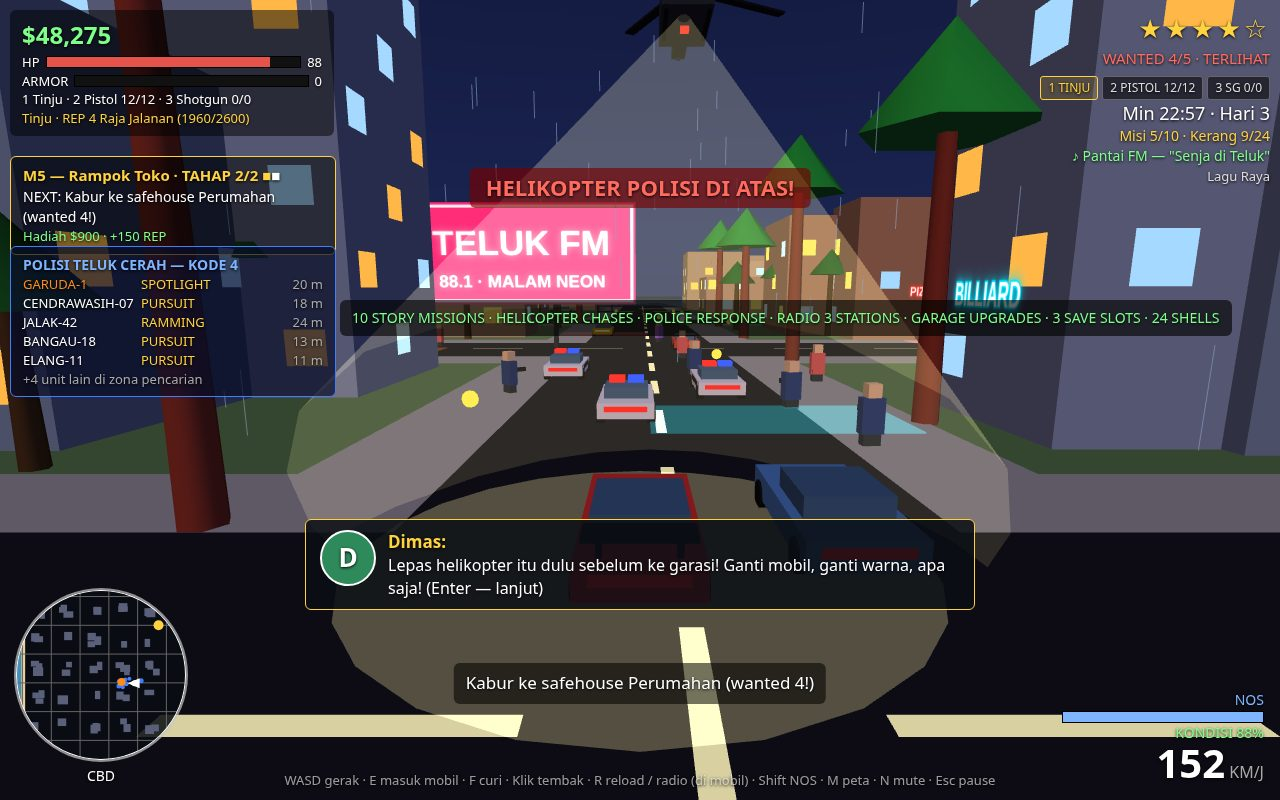
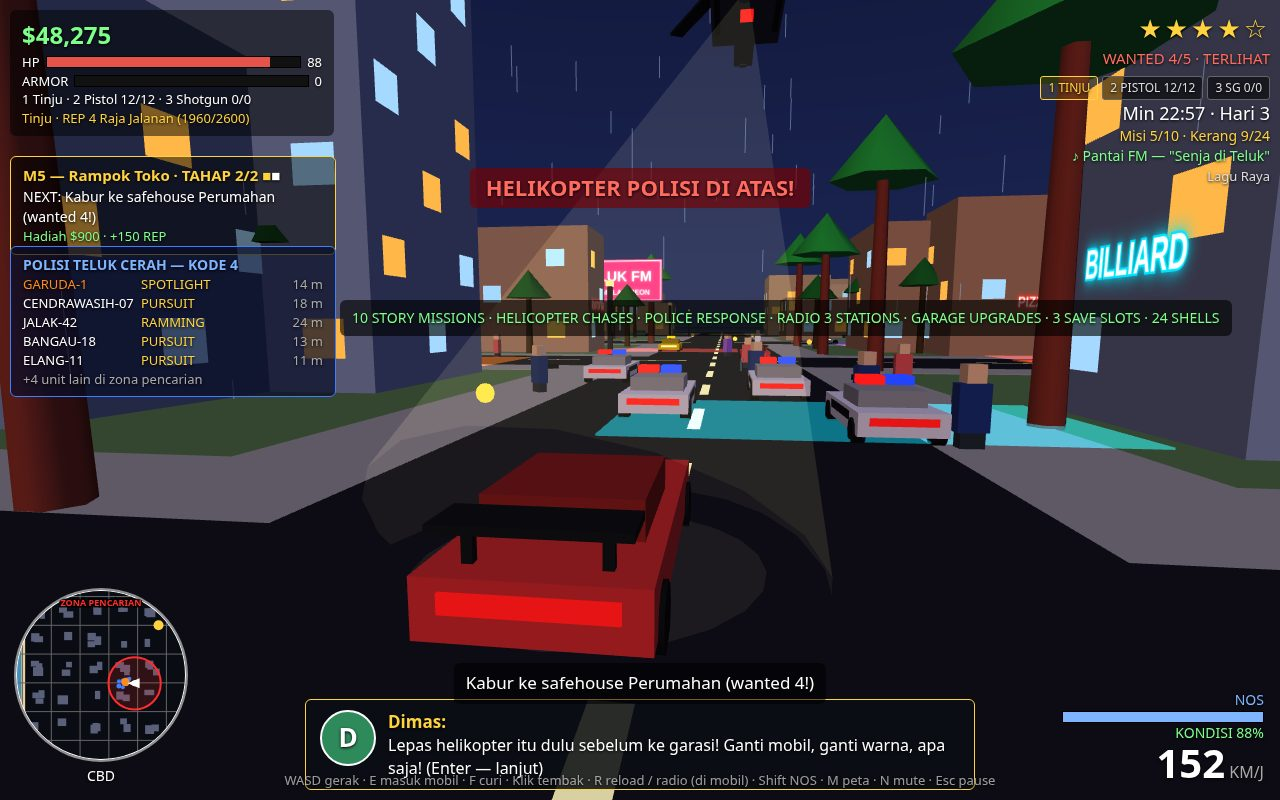
gta6-01 v3 fixer: search-zone minimap, shootout flash+tracer persisten, 6 kru berwajah, peta malam neon, chase ala referensi
- hud.js drawMinimap: lingkaran zona pencarian merah (rgba 255,45,45,0.16 + stroke #ff2d2d) + label ZONA PENCARIAN
- hud.js drawMapCanvas: palet malam navy #0d1526, jalan neon cyan, blok distrik gelap, label CBD digeser dari garis rute
- shots.js/render.js: kamera on-foot dekat + offset samping (pemain ~30% frame), muzzleFlash persisten + balok tracer kuning laras->musuh, sprite flash dikecilkan
- index.html: kru 6 (Sinta Peretas, Bimo Penjaga) + wajah voxel ganti badge huruf; title hero+Raka foreground kiri-bawah
- render.js/shots.js chase: kamera 3/4 ala competitor-chase-ref, kabin warna bodi digelapkan, billboard TELUK FM digeser dari titik hilang, cakram spotlight diredupkan, genangan neon diperkuat, dialog chase dipindah ke bawah
- render.js: hapus teks NEON NIGHTS dari daftar papan neon (nama kompetitor)

diff --git a/game/src/render.js b/game/src/render.js
@@ -208,7 +208,7 @@ export function createRenderer(canvas) {
     // Neon sign: papan nama bercahaya di fasad gedung dekat jalan +
     // pantulan warnanya di aspal basah (tekstur canvas prosedural,
     // tanpa aset eksternal).
-    const NEON_TEXTS = ['KLUB', 'DISKO', 'NEON NIGHTS', 'ROOFTOP BAR', 'ARCADE 24/7', 'WARUNG', 'KAFE', 'HOTEL', 'BAR', 'SINEMA', 'PIZZA', 'KARAOKE', 'BILLIARD', 'TOKO 24 JAM'];
+    const NEON_TEXTS = ['KLUB', 'DISKO', 'WARUNG KOPI', 'ROOFTOP BAR', 'ARCADE 24/7', 'WARUNG', 'KAFE', 'HOTEL', 'BAR', 'SINEMA', 'PIZZA', 'KARAOKE', 'BILLIARD', 'TOKO 24 JAM'];
     const NEON_COLORS = ['#ff2d78', '#00e5ff', '#ffe14d', '#39ff6a', '#ff6a00', '#c26aff', '#ff3b30'];
     const neonTexCache = new Map();
     function neonTexture(text, color) {
@@ -248,11 +248,11 @@ export function createRenderer(canvas) {
       sign.rotation.y = f.ry;
       scene.add(sign);
       // Pantulan neon di aspal basah (kotak tipis additif, mencapai jalan).
-      const sx = f.nz !== 0 ? w * 0.6 : 9;
-      const sz = f.nz !== 0 ? 9 : w * 0.6;
+      const sx = f.nz !== 0 ? w * 0.9 : 13;
+      const sz = f.nz !== 0 ? 13 : w * 0.9;
       const reach = (f.gap || 0) * 0.5 + 1.5;
       putBox(scene, f.px + f.nx * reach, 0.09, f.pz + f.nz * reach, sx, 0.05, sz,
-        new THREE.MeshBasicMaterial({ color: new THREE.Color(color), transparent: true, opacity: 0.28, blending: THREE.AdditiveBlending, depthWrite: false }));
+        new THREE.MeshBasicMaterial({ color: new THREE.Color(color), transparent: true, opacity: 0.45, blending: THREE.AdditiveBlending, depthWrite: false }));
     }
     city.buildings.forEach((b, bi) => {
       if (b.h < 6 || bi % 3 !== 0) return;
@@ -311,9 +311,10 @@ export function createRenderer(canvas) {
     const bbTex = new THREE.CanvasTexture(bbCanvas);
     bbTex.anisotropy = 4;
     const billboard = new THREE.Mesh(planeGeo, new THREE.MeshBasicMaterial({ map: bbTex, side: THREE.DoubleSide }));
-    billboard.scale.set(18, 6.5, 1);
-    // Menghadap timur (ke kamera chase) — dekat supaya besar di frame.
-    billboard.position.set(20, 7, 22);
+    billboard.scale.set(14, 5.2, 1);
+    // Menghadap timur (ke kamera chase) — digeser ke barat + selatan supaya
+    // tidak menutupi titik hilang jalan (ala referensi: papan di sisi jalan).
+    billboard.position.set(-20, 8, 26);
     billboard.rotation.y = Math.PI / 2;
     scene.add(billboard);
     // Palem koridor: deret palem tinggi berbatang merah di tepi jalan
@@ -400,7 +401,9 @@ export function createRenderer(canvas) {
     g.userData.body = body;
     g.userData.bodyMat = bodyMat;
     g.userData.baseColor = v.color;
-    putBox(g, 0, 1.0, -0.3, v.wid - 0.4, 0.45, v.len * 0.42, lambert(0x3a5a7a)); // kabin
+    // Kabin: warna bodi digelapkan (bukan biru baja) — hero merah tetap merah.
+    const cabCol = new THREE.Color(v.color).multiplyScalar(0.65).getHex();
+    putBox(g, 0, 1.0, -0.3, v.wid - 0.4, 0.45, v.len * 0.42, lambert(cabCol)); // kabin
     const wheelGeo = new THREE.CylinderGeometry(0.32, 0.32, 0.3, 10);
     const wheelMat = lambert(0x0d0d0f);
     for (const [wx, wz] of [[-0.85, 1.45], [0.85, 1.45], [-0.85, -1.45], [0.85, -1.45]]) {
@@ -543,13 +546,13 @@ export function createRenderer(canvas) {
     scene.add(heliGroup);
     // Kerucut spotlight + lingkaran cahaya di tanah.
     const coneMat = new THREE.MeshBasicMaterial({
-      color: 0xfff0a0, transparent: true, opacity: 0.12,
+      color: 0xfff0a0, transparent: true, opacity: 0.05,
       blending: THREE.AdditiveBlending, depthWrite: false, side: THREE.DoubleSide,
     });
     spotCone = new THREE.Mesh(new THREE.ConeGeometry(6, 14, 20, 1, true), coneMat);
     scene.add(spotCone);
     const circMat = new THREE.MeshBasicMaterial({
-      color: 0xfff0a0, transparent: true, opacity: 0.28,
+      color: 0xfff0a0, transparent: true, opacity: 0.06,
       blending: THREE.AdditiveBlending, depthWrite: false,
     });
     spotCircle = new THREE.Mesh(new THREE.CircleGeometry(5, 24), circMat);
@@ -606,9 +609,15 @@ export function createRenderer(canvas) {
   const flashSprite = webglOK ? new THREE.Sprite(new THREE.SpriteMaterial({ color: 0xffd23f, transparent: true, opacity: 0.95, blending: THREE.AdditiveBlending, depthWrite: false })) : null;
   if (webglOK) {
     scene.add(flashLight);
-    flashSprite.scale.set(1.1, 1.1, 1);
+    flashSprite.scale.set(0.8, 0.8, 1);
     flashSprite.visible = false;
     scene.add(flashSprite);
+  }
+  // ---- garis tembak kuning persisten (balok additif laras -> musuh) ----
+  const flashBeam = webglOK ? new THREE.Mesh(new THREE.BoxGeometry(1, 1, 1), new THREE.MeshBasicMaterial({ color: 0xffd23f, transparent: true, opacity: 0.95, blending: THREE.AdditiveBlending, depthWrite: false })) : null;
+  if (webglOK) {
+    flashBeam.visible = false;
+    scene.add(flashBeam);
   }
 
   // ---- hujan: garis-garis vertikal di sekitar pemain (aktif bila G.rain) ----
@@ -741,8 +750,9 @@ export function createRenderer(canvas) {
         new THREE.Vector3(0, 1, 0),
         new THREE.Vector3(dx / dist, h.y / dist, dz / dist),
       );
-      spotCone.scale.set(1, Math.max(0.6, dist / 14), 1);
+      spotCone.scale.set(0.45, Math.max(0.6, dist / 14), 0.45);
       spotCircle.position.set(p.x, 0.09, p.z);
+      spotCircle.scale.set(0.4, 0.4, 1); // cakram sorot kecil, jangan tutupi jalan/mobil
     } else {
       heliGroup.visible = false;
       spotCone.visible = false;
@@ -757,9 +767,22 @@ export function createRenderer(canvas) {
       flashLight.intensity = 3;
       flashSprite.position.set(fx, 1.6, fz);
       flashSprite.visible = true;
+      // Balok tracer persisten laras -> target (tidak ikut decay peluru).
+      if (G.flashTarget) {
+        const tx = G.flashTarget.x;
+        const tz = G.flashTarget.z;
+        const len = Math.hypot(tx - fx, tz - fz);
+        flashBeam.visible = true;
+        flashBeam.position.set((fx + tx) / 2, 1.4, (fz + tz) / 2);
+        flashBeam.scale.set(0.16, 0.16, Math.max(0.5, len));
+        flashBeam.lookAt(tx, 1.4, tz);
+      } else {
+        flashBeam.visible = false;
+      }
     } else {
       flashLight.intensity = 0;
       flashSprite.visible = false;
+      flashBeam.visible = false;
     }
 
     // Tracer peluru.
@@ -826,11 +849,17 @@ export function createRenderer(canvas) {
     }
 
     // ---- kamera ----
-    if (G.screen === 'title') {
+    if (G.shotCam) {
+      // Kamera staging deterministik (?shot=): posisi + tatapan persis,
+      // tanpa lerp — dipakai shot chase/shootout supaya hero besar di frame.
+      camPos.set(G.shotCam.px, G.shotCam.py, G.shotCam.pz);
+      camLook.set(G.shotCam.lx, G.shotCam.ly, G.shotCam.lz);
+      camInit = false;
+    } else if (G.screen === 'title') {
       if (G.titleFixed) {
-        // Poster: mobil hero + Raka besar di kiri bawah, kota neon di belakang.
-        camPos.set(24, 3.5, 26);
-        camLook.set(10, 8, -30);
+        // Poster: mobil hero + Raka besar di foreground kiri-bawah, kota neon di belakang.
+        camPos.set(10, 2.6, 30);
+        camLook.set(8, 4.5, 16);
       } else {
         const a = t * 0.05;
         camPos.set(Math.sin(a) * 85, 38 + Math.sin(t * 0.1) * 4, Math.cos(a) * 85);

diff --git a/game/index.html b/game/index.html
@@ -71,9 +71,24 @@
   #title-screen h1 { margin: 0; font-size: 76px; font-weight: 800; letter-spacing: 4px; background: linear-gradient(90deg, #ff8c1a, #ff5e8a, #37c8e8); -webkit-background-clip: text; background-clip: text; color: transparent; }
   #title-screen .sub { font-size: 18px; letter-spacing: 2px; color: #eef1f5; margin-top: 6px; }
   #title-screen .tag { font-size: 17px; color: #ffd23f; margin-top: 10px; }
-  #crew { display: flex; gap: 60px; margin-top: 26px; }
+  #crew { display: flex; gap: 44px; margin-top: 26px; }
   #crew .c { text-align: center; }
-  #crew .face { width: 68px; height: 68px; border-radius: 50%; border: 2px solid #fff; display: flex; align-items: center; justify-content: center; font-size: 30px; font-weight: 700; margin: 0 auto; }
+  #crew .face { width: 68px; height: 68px; border-radius: 50%; border: 2px solid #fff; display: block; margin: 0 auto; position: relative; overflow: hidden; background: #e8b98a; }
+  #crew .face .hair { position: absolute; top: 0; left: 0; right: 0; height: 24px; background: #1c1c22; border-radius: 50% 50% 0 0; }
+  #crew .face .hair.gray { background: #8a8a92; }
+  #crew .face .hair.brown { background: #5a3a1a; }
+  #crew .face .hair.red { background: #a83226; }
+  #crew .face .hair.cap { background: #2e8a5b; height: 20px; }
+  #crew .face .hair.band { background: #8a5ec2; height: 12px; top: 14px; }
+  #crew .face .hair.bob { height: 34px; }
+  #crew .face .hair.bandana { background: #c22a2a; height: 18px; }
+  #crew .face .eye { position: absolute; top: 30px; width: 7px; height: 7px; border-radius: 50%; background: #1c1c22; }
+  #crew .face .eye.l { left: 18px; }
+  #crew .face .eye.r { right: 18px; }
+  #crew .face .mouth { position: absolute; top: 46px; left: 26px; width: 16px; height: 4px; border-radius: 2px; background: #7a3a2a; }
+  #crew .face .beard { position: absolute; bottom: 0; left: 12px; right: 12px; height: 22px; background: #1c1c22; border-radius: 0 0 34px 34px; }
+  #crew .face .glasses { position: absolute; top: 27px; left: 10px; right: 10px; height: 12px; border: 2px solid #111; border-radius: 6px; }
+  #crew .face .glasses::after { content: ""; position: absolute; left: 50%; top: 4px; width: 8px; height: 2px; margin-left: -4px; background: #111; }
   #crew .nm { font-size: 16px; margin-top: 8px; }
   #crew .rl { font-size: 13px; color: #aaa; }
   #continue-box { margin-top: 30px; font-size: 18px; color: #7dff8a; background: rgba(125,255,138,0.12); border: 1px solid #7dff8a; padding: 8px 16px; max-width: 620px; text-align: center; }
@@ -86,7 +101,7 @@
   #map-left { flex: none; }
   #map-title { font-size: 30px; color: #ffd23f; font-weight: 700; }
   #map-hint { font-size: 14px; color: #aaa; margin: 4px 0 10px; }
-  #mapcanvas { border: 2px solid #fff; display: block; background: #557a45; }
+  #mapcanvas { border: 2px solid #fff; display: block; background: #0d1526; }
   #map-right { flex: 1; min-width: 420px; }
   #map-right h2 { color: #ffd23f; font-size: 20px; margin: 8px 0 6px; }
   #mission-list div { font-size: 15px; line-height: 1.65; }
@@ -148,10 +163,12 @@
   <div class="sub">OPEN-WORLD CRIME 3D · 10 MISI · HELIKOPTER · RADIO · GARAGE</div>
   <div class="tag">Tiga tahun merantau, Raka pulang ke Teluk Cerah.</div>
   <div id="crew">
-    <div class="c"><div class="face" style="background:#2e6fb5">R</div><div class="nm">Raka</div><div class="rl">Protagonis</div></div>
-    <div class="c"><div class="face" style="background:#e8a020">B</div><div class="nm">Bu Sari</div><div class="rl">Fixer</div></div>
-    <div class="c"><div class="face" style="background:#2e8a5b">D</div><div class="nm">Dimas</div><div class="rl">Mekanik</div></div>
-    <div class="c"><div class="face" style="background:#8a5ec2">N</div><div class="nm">Nadia</div><div class="rl">Pembalap</div></div>
+    <div class="c"><div class="face"><span class="hair"></span><span class="eye l"></span><span class="eye r"></span><span class="mouth"></span></div><div class="nm">Raka</div><div class="rl">Protagonis</div></div>
+    <div class="c"><div class="face"><span class="hair gray"></span><span class="eye l"></span><span class="eye r"></span><span class="mouth"></span></div><div class="nm">Bu Sari</div><div class="rl">Fixer</div></div>
+    <div class="c"><div class="face"><span class="hair cap"></span><span class="eye l"></span><span class="eye r"></span><span class="mouth"></span></div><div class="nm">Dimas</div><div class="rl">Mekanik</div></div>
+    <div class="c"><div class="face"><span class="hair band"></span><span class="eye l"></span><span class="eye r"></span><span class="mouth"></span></div><div class="nm">Nadia</div><div class="rl">Pembalap</div></div>
+    <div class="c"><div class="face"><span class="hair bob brown"></span><span class="glasses"></span><span class="eye l"></span><span class="eye r"></span><span class="mouth"></span></div><div class="nm">Sinta</div><div class="rl">Peretas</div></div>
+    <div class="c"><div class="face"><span class="hair bandana"></span><span class="eye l"></span><span class="eye r"></span><span class="beard"></span></div><div class="nm">Bimo</div><div class="rl">Penjaga</div></div>
   </div>
   <div id="continue-box" class="hidden"></div>
   <div id="title-menu">ENTER — New Game<br><span id="title-continue-line" class="hidden">L — Lanjutkan save</span></div>

diff --git a/game/src/shots.js b/game/src/shots.js
@@ -108,18 +108,32 @@ export function stageShot(name, G) {
     G.cops.splice(4); // panel: heli + 4 mobil + 4 polisi jalan kaki
     car.speed = 19; // 152 km/j di speedometer
     if (G.heli) {
-      G.heli.x = G.player.x - 20;
+      G.heli.x = G.player.x - 14;
       G.heli.z = G.player.z - 2;
-      G.heli.y = 17;
+      G.heli.y = 13;
     }
     for (const v of G.vehicles) {
       if (v.type === 'police') v.dead = true; // bersihkan hasil kejar-kejaran sim
     }
     G.vehicles = G.vehicles.filter((v) => !v.dead);
+    // Bersihkan mobil lalu-lalang/parkir yang menempel di sekitar hero
+    // (menutupi mobil hero dari kamera rapat) — hero + polisi tetap.
+    G.vehicles = G.vehicles.filter((v) => v === car || v.type === 'police' || Math.hypot(v.x - car.x, v.z - car.z) > 12);
     placeCopCar(G, -18, -3.5, -Math.PI / 2, 'CENDRAWASIH-07', 'PURSUIT');
     placeCopCar(G, -24, 4, -Math.PI / 2, 'JALAK-42', 'RAMMING');
     placeCopCar(G, -13, 0.5, -Math.PI / 2, 'BANGAU-18', 'PURSUIT');
-    placeCopCar(G, 10, -4, Math.PI / 2, 'ELANG-11', 'PURSUIT');
+    placeCopCar(G, -10, -5.5, -Math.PI / 2, 'ELANG-11', 'PURSUIT');
+    // Kamera chase ala referensi: di belakang-utara mobil, memandang ke
+    // barat daya — hero 3/4 tengah-bawah, jalan lurus ke titik hilang,
+    // papan TELUK FM geser ke kiri, polisi kanan-depan masuk frame.
+    // Dialog dipindah ke bawah sekali (ala referensi: tanpa dialog di
+    // tengah frame) supaya badan mobil hero tidak tertutup kotak dialog.
+    const dlg = document.getElementById('dialog');
+    if (dlg) dlg.style.bottom = '10px';
+    G.shotCam = {
+      px: car.x + 7, py: 2.6, pz: car.z - 1.5,
+      lx: car.x - 8, ly: 1.0, lz: car.z + 0.5,
+    };
     return { screen: SCREEN_PLAY };
   }
   if (name === '2') {
@@ -153,7 +167,44 @@ export function stageShot(name, G) {
     G.input.mouse.down = true;
     simulate(G, 1.5, false);
     G.input.mouse.down = false;
-    G.muzzleFlash = 0.07; // kilat moncong tetap menyala di frame
+    // Musuh dirapatkan ke depan pemain (baris dekat, bukan kejauhan),
+    // digeser ke kanan garis bidik supaya tracer melintang di frame.
+    G.enemies.forEach((en, i) => {
+      en.x = G.player.x - 5 - i * 2.2;
+      en.z = G.player.z - 3.5 + (i % 2) * 2;
+    });
+    const e0 = G.enemies[0];
+    if (e0) {
+      G.aimOverride = { x: e0.x, z: e0.z };
+      G.player.aimAngle = Math.atan2(e0.x - G.player.x, e0.z - G.player.z);
+      G.player.angle = G.player.aimAngle;
+    }
+    // Kamera on-foot dekat + offset samping: pemain di x ~30% frame, tinggi
+    // ~30-35% frame, terlihat dari samping-belakang (laras + musuh di kanan).
+    // Bukan jarak kamera mobil.
+    const a = G.player.angle;
+    const fx = Math.sin(a);
+    const fz = Math.cos(a);
+    const rx = -Math.cos(a);
+    const rz = Math.sin(a);
+    G.shotCam = {
+      px: G.player.x - fx * 4.5 + rx * 2.0,
+      py: 1.9,
+      pz: G.player.z - fz * 4.5 + rz * 2.0,
+      lx: G.player.x + fx * 6 + rx * 2.4,
+      ly: 0.6,
+      lz: G.player.z + fz * 6 + rz * 2.4,
+    };
+    // Flash + tracer PERSISTEN sampai __shotReady: mode ?shot= tidak
+    // menjalankan stepGame lagi, jadi nilai ini tidak decay sebelum frame
+    // tertangkap (pelajaran shot lama: 0,07 dtk habis sebelum screenshot).
+    G.muzzleFlash = 5;
+    if (e0) {
+      const mx = G.player.x + fx * 1.4;
+      const mz = G.player.z + fz * 1.4;
+      G.bullets.push({ x: e0.x, z: e0.z, px: mx, pz: mz, angle: a, speed: 0, life: 99, from: 'player' });
+      G.flashTarget = { x: e0.x, z: e0.z }; // ujung balok tracer persisten
+    }
     if (G.heli) {
       G.heli.x = G.player.x - 7;
       G.heli.z = G.player.z - 3;
@@ -181,12 +232,12 @@ export function stageShot(name, G) {
   G.clock = 21 * 60; // malam 21:00 — neon + hujan di backdrop
   G.rain = true;
   G.titleFixed = true; // kamera poster: mobil hero besar di kiri bawah
-  const hero = makeVehicle(G.rng, 'sport', 12, 18, -Math.PI / 2);
+  const hero = makeVehicle(G.rng, 'sport', 3, 20, -Math.PI / 2);
   hero.color = 0xd42a2a;
   G.vehicles.push(hero);
-  G.player.x = 18;
-  G.player.z = 20;
-  G.player.angle = Math.PI / 4; // Raka menghadap kamera, di samping mobil
+  G.player.x = 2;
+  G.player.z = 22;
+  G.player.angle = 0.79; // Raka menghadap kamera, di samping mobil
   G.player.onFoot = true;
   writeSave(0, {
     cash: 14830, health: 82, armor: 64, x: 0, z: 0,

diff --git a/game/src/hud.js b/game/src/hud.js
@@ -60,6 +60,19 @@ export function createHud() {
     for (const b of G.city.buildings) {
       c.fillRect((b.x - b.w / 2 + ox) * sc, (b.z - b.d / 2 + ox) * sc, Math.max(1, b.w * sc), Math.max(1, b.d * sc));
     }
+    // Lingkaran zona pencarian merah di sekitar pemain (radius 40 dunia).
+    const zx = (G.player.x + ox) * sc;
+    const zy = (G.player.z + ox) * sc;
+    const zr = 40 * sc;
+    c.fillStyle = 'rgba(255,45,45,0.16)';
+    c.beginPath();
+    c.arc(zx, zy, zr, 0, Math.PI * 2);
+    c.fill();
+    c.strokeStyle = '#ff2d2d';
+    c.lineWidth = 2;
+    c.beginPath();
+    c.arc(zx, zy, zr, 0, Math.PI * 2);
+    c.stroke();
     function dot(x, z, color, r) {
       c.fillStyle = color;
       c.beginPath();
@@ -96,6 +109,15 @@ export function createHud() {
     c.beginPath();
     c.arc(S / 2, S / 2, S / 2, 0, Math.PI * 2);
     c.stroke();
+    // Label zona pencarian di dalam lingkaran minimap (atas, supaya
+    // tidak terpotong masker bundar CSS di tepi bawah).
+    c.font = 'bold 9px system-ui, sans-serif';
+    c.textAlign = 'center';
+    c.lineWidth = 3;
+    c.strokeStyle = 'rgba(0,0,0,0.85)';
+    c.strokeText('ZONA PENCARIAN', S / 2, 16);
+    c.fillStyle = '#ff2d2d';
+    c.fillText('ZONA PENCARIAN', S / 2, 16);
   }
 
   function drawMapCanvas(G) {
@@ -103,30 +125,36 @@ export function createHud() {
     const sc = ms / 260;
     const ox = 130;
     const c = mapCtx;
-    c.fillStyle = '#6f7f56';
+    // Palet malam neon: dasar navy gelap, bukan hijau siang.
+    c.fillStyle = '#0d1526';
     c.fillRect(0, 0, ms, ms);
-    c.fillStyle = '#2a6a9a';
+    c.fillStyle = '#0a2038';
     c.fillRect(0, 0, 8 * sc, ms);
-    c.fillStyle = '#d8c08a';
+    c.fillStyle = '#16233d';
     c.fillRect(8 * sc, 0, 6 * sc, ms);
-    // Bangunan diwarnai per distrik (zona hidup, bukan abu-abu datar).
+    // Bangunan gelap per distrik (zona malam, bukan warna siang).
+    const DISTRICT_DARK = { Marina: '#1a2a44', 'Kota Tua': '#2a2138', CBD: '#14263d', Perumahan: '#1c2f22', Pelabuhan: '#33222a' };
     for (const b of G.city.buildings) {
-      c.fillStyle = DISTRICT_COLORS[b.district] || `#${b.color.toString(16).padStart(6, '0')}`;
+      c.fillStyle = DISTRICT_DARK[b.district] || `#${b.color.toString(16).padStart(6, '0')}`;
       c.fillRect((b.x - b.w / 2 + ox) * sc, (b.z - b.d / 2 + ox) * sc, Math.max(2, b.w * sc), Math.max(2, b.d * sc));
     }
-    c.strokeStyle = '#d8c890';
-    c.lineWidth = 6;
+    // Jalan: garis neon cyan tipis bercahaya.
+    c.strokeStyle = '#22d3ee';
+    c.lineWidth = 3;
+    c.shadowColor = '#22d3ee';
+    c.shadowBlur = 6;
     for (const l of G.city.lines) {
       const p = (l + ox) * sc;
       c.beginPath(); c.moveTo(p, 0); c.lineTo(p, ms); c.stroke();
       c.beginPath(); c.moveTo(0, p); c.lineTo(ms, p); c.stroke();
     }
+    c.shadowBlur = 0;
     c.font = 'bold 17px system-ui, sans-serif';
     c.textAlign = 'center';
     const districts = [
       { n: 'Marina', x: -98, z: 0 },
       { n: 'Kota Tua', x: -32, z: 12 },
-      { n: 'CBD', x: 56, z: 12 },
+      { n: 'CBD', x: 78, z: -10 },
       { n: 'Perumahan', x: 12, z: -98 },
       { n: 'Pelabuhan', x: 34, z: 88 },
     ];
@@ -139,7 +167,7 @@ export function createHud() {
     c.shadowBlur = 0;
     // Label grid ala peta kota (A–F / 1–5).
     c.font = '12px system-ui, sans-serif';
-    c.fillStyle = '#aaa';
+    c.fillStyle = '#7fb5d8';
     'ABCDEF'.split('').forEach((ch, i) => c.fillText(ch, (i + 0.5) * (ms / 6), 14));
     '12345'.split('').forEach((ch, i) => c.fillText(ch, 10, (i + 0.5) * (ms / 5)));
     function mdot(x, z, color, r) {
